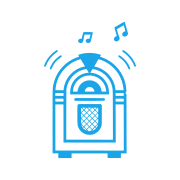
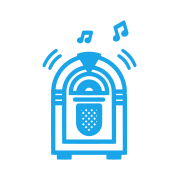
thicken and enlarge the jukebox mark

diff --git a/public/style.css b/public/style.css
@@ -267,10 +267,10 @@ body.viz #app { opacity: 0; pointer-events: none; }
 /* A mask, so the jukebox takes the theme's accent in light and dark. */
 .logo-mark {
     display: inline-block;
-    width: .92em;
-    height: 1.34em;
-    margin-left: 7px;
-    vertical-align: -.26em;
+    width: 1.12em;
+    height: 1.6em;
+    margin-left: 8px;
+    vertical-align: -.36em;
     background: var(--accent);
     -webkit-mask: url("images/jukebox.svg") center / contain no-repeat;
     mask: url("images/jukebox.svg") center / contain no-repeat;
